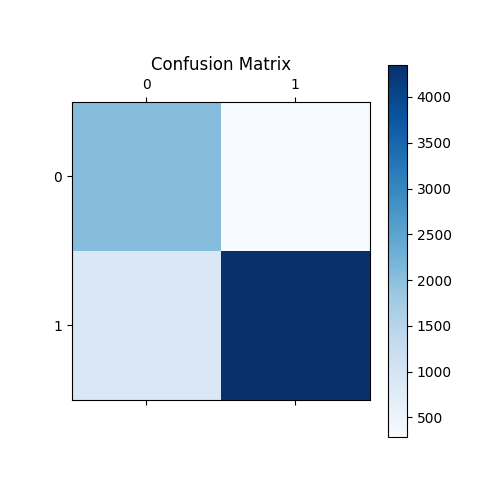
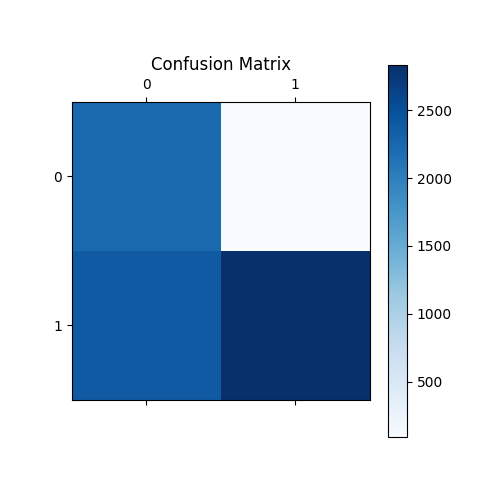
improvements

diff --git a/backend/app/services/model.py b/backend/app/services/model.py
@@ -1,18 +1,24 @@
-# backend/app/services/model.py
 import joblib
+import json
 from ml.src.preprocess import preprocess_text
 
+
 class ScamModel:
-    def __init__(self, vectorizer_path, classifier_path):
-        self.vectorizer = joblib.load(vectorizer_path)
-        self.clf = joblib.load(classifier_path)
+    def __init__(self):
+        # Load vectorizer
+        self.vectorizer = joblib.load("ml/models/vectorizer.joblib")
+
+        # Load primary classifier (Logistic Regression)
+        self.logreg = joblib.load("ml/models/classifier.joblib")
+
+        # Load Naive Bayes (secondary signal)
+        self.nb = joblib.load("ml/models/nb.joblib")
+
+        # Load threshold decided during training
+        with open("ml/reports/threshold.json") as f:
+            self.threshold = json.load(f)["threshold"]
 
     def predict(self, job: dict):
-        """
-        Predict whether a job is fake or real.
-        job: dict containing all job fields
-        """
-
         TEXT_COLS = [
             "title",
             "description",
@@ -25,13 +31,14 @@ class ScamModel:
             "salary_range"
         ]
 
-        raw_text = " ".join([job.get(col, "") for col in TEXT_COLS])
+        # Build text exactly like training
+        raw_text = " ".join(job.get(col, "") for col in TEXT_COLS)
         pre_text = preprocess_text(raw_text)
+
         vec = self.vectorizer.transform([pre_text])
-        fraud_prob = self.clf.predict_proba(vec)[0][1]
-        THRESHOLD = 0.65
-        label = int(fraud_prob > THRESHOLD)
-        confidence = float(fraud_prob)
 
-        return label, confidence, pre_text
+        # Logistic Regression probability
+        fraud_prob = self.logreg.predict_proba(vec)[0][1]
 
+        # Decision logic
+        return float(fraud_prob), pre_text

diff --git a/backend/app/api/routes.py b/backend/app/api/routes.py
@@ -7,7 +7,8 @@ from backend.app.services.storage import insert_prediction, list_history
 from ml.src.explain import keyword_risks, top_terms_logreg
 
 router = APIRouter()
-model = ScamModel("ml/models/vectorizer.joblib", "ml/models/classifier.joblib")
+model = ScamModel()
+
 
 class PredictRequest(BaseModel):
     title: Optional[str] = ""
@@ -27,40 +28,39 @@ def health():
 
 
 @router.post("/predict")
+@router.post("/predict")
 def predict(req: PredictRequest):
-    # Convert Pydantic model → dict
     job_payload = req.dict()
 
-    # ✅ NEW predict signature
-    label, confidence, pre_text = model.predict(job_payload)
+    ml_prob, pre_text = model.predict(job_payload)
 
-    # Explanation
+    risks, rule_score = keyword_risks(pre_text)
+
+    final_score = 0.7 * ml_prob + 0.3 * rule_score
+
+    label = 1 if final_score >= 0.5 else 0
+
     explanation = {
-        "risks": keyword_risks(pre_text)
+        "risks": risks
     }
 
     try:
         explanation["top_terms"] = top_terms_logreg(
             model.vectorizer,
-            model.clf
+            model.logreg
         )
     except Exception:
         explanation["top_terms"] = []
 
-    # Store in DB
-    insert_prediction(
-        pre_text,
-        label,
-        confidence,
-        explanation
-    )
+    insert_prediction(pre_text, label, final_score, explanation)
 
     return {
         "label": "Fake" if label == 1 else "Real",
-        "confidence": round(confidence * 100, 2),
+        "confidence": round(final_score * 100, 2),
+        "ml_probability": round(ml_prob * 100, 2),
+        "rule_score": round(rule_score * 100, 2),
         "explanation": explanation
     }
-
 
 @router.get("/history")
 def history(limit: int = 50, offset: int = 0):

diff --git a/ml/src/explain.py b/ml/src/explain.py
@@ -13,22 +13,41 @@ def top_terms_logreg(vectorizer, clf, top_k: int = 10):
     return [(feature_names[i], float(coefs[i])) for i in top_idx]
 
 
+RULE_WEIGHTS = {
+    "payment_request": 0.4,
+    "personal_info": 0.5,
+    "whatsapp_only": 0.3,
+    "urgency": 0.2
+}
+
 def keyword_risks(text: str):
     """
     Rule-based keyword risk detection.
     """
-    risks = []
-    rules = {
-        "payment_request": ["wire transfer","western union","pay fee","processing fee","training fee","fee", "payment", "deposit"],
-        "whatsapp_only": "whatsapp" in text,
-        "personal_info": ["ssn","aadhaar","pan","passport","bank account","credit card"],
-        "contact_only": ["whatsapp","telegram","dm me","text only"],
-        "urgent_hiring": "urgent" in text,
-        "urgency": ["urgent","immediate joining","limited slots","act now"],
-    }
+    if not text:
+        return [], 0.0
+
     lower = text.lower()
+    risks = []
+    risk_score = 0.0
+
+    rules = {
+        "payment_request": [
+            "registration fee", "training fee", "pay upfront"
+        ],
+        "whatsapp_only": ["whatsapp only"],
+        "personal_info": [
+            "aadhaar", "pan", "bank account", "credit card"
+        ],
+        "urgency": [
+            "urgent hiring", "limited slots", "act now"
+        ]
+    }
+
     for label, kws in rules.items():
         hits = [k for k in kws if k in lower]
         if hits:
             risks.append({"rule": label, "keywords": hits})
-    return risks
+            risk_score += RULE_WEIGHTS[label]
+
+    return risks, min(risk_score, 1.0)
